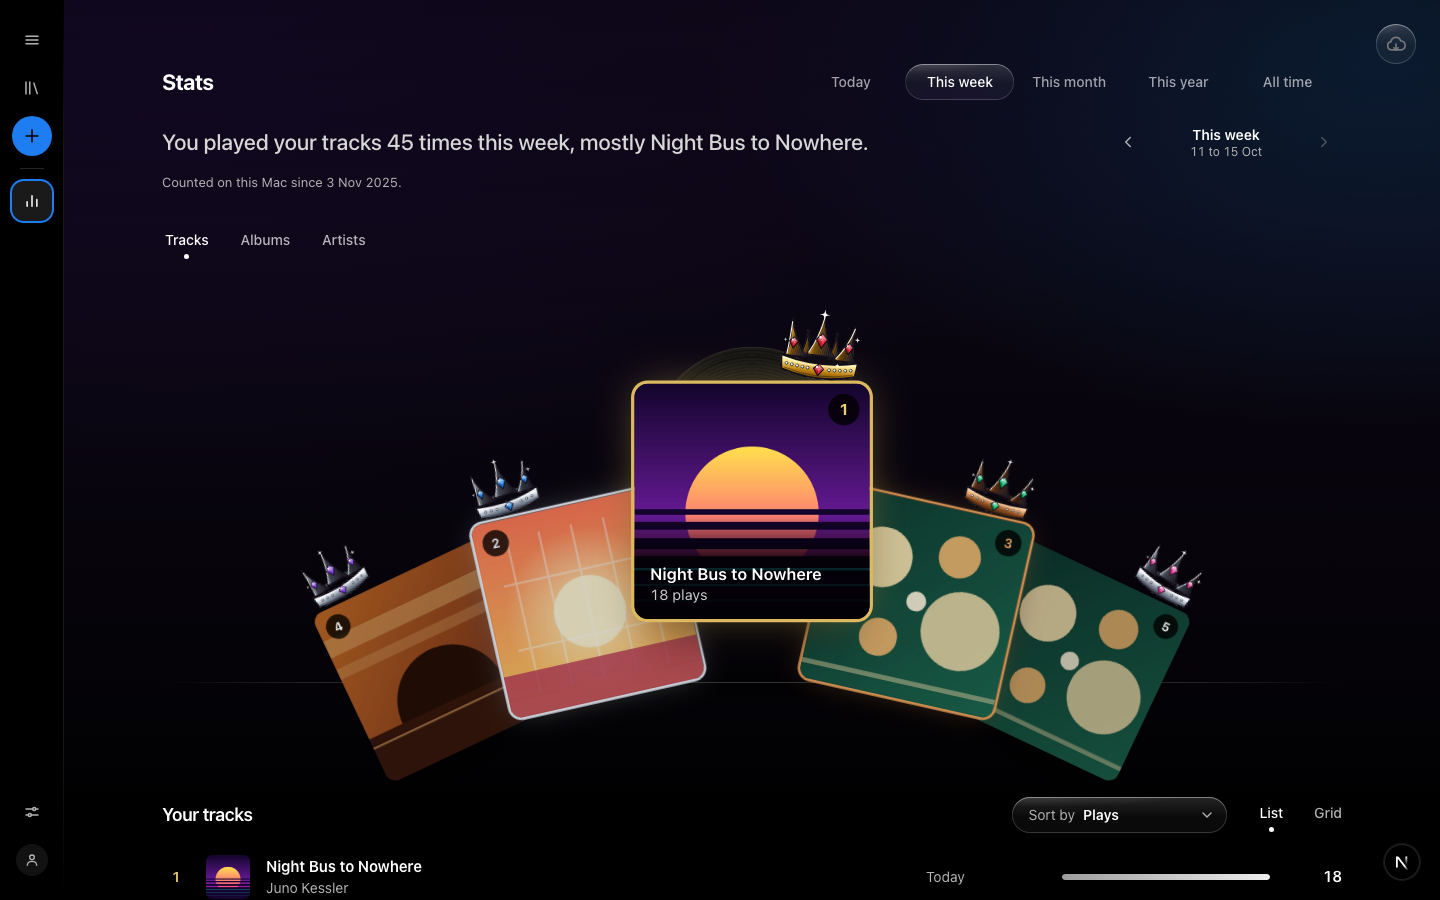
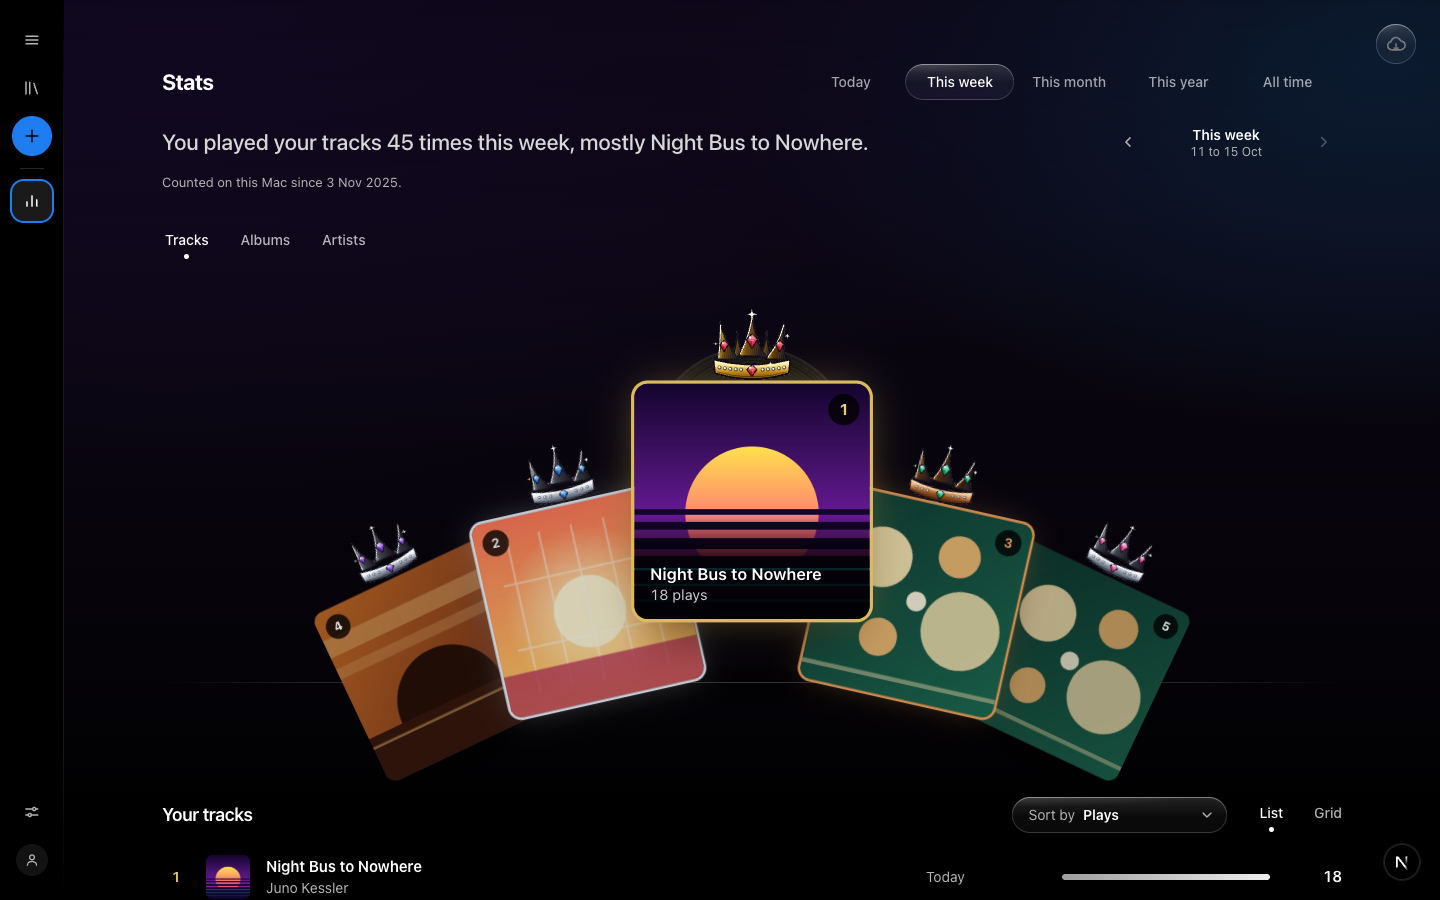
Stats page: crowns centred on the top edge, on tracks and albums only (#145)
The owner wanted them centred and not on artists.

Claude-Session: https://claude.ai/code/session_016wtvpvRFjMyGctvKw2v9pz

diff --git a/apps/web/src/app/globals.css b/apps/web/src/app/globals.css
@@ -2301,26 +2301,20 @@ body {
 .fan-rank[data-medal="gold"] { color: #ecce78; }
 .fan-rank[data-medal="silver"] { color: #d3d8e0; }
 .fan-rank[data-medal="bronze"] { color: #dc9a5e; }
-/* The rank crown (top five): perched on the badge's corner, its band just over the sleeve's top edge
-   and the badge beneath it. It lives inside the button so it tilts and lifts with the sleeve, lets
-   every click through (the hit area is the sleeve's) and has no motion of its own. The simpler
-   drawing shows by default; the full one only where the crown is 64px wide or more (see the
-   container query after the narrow block). 0.42 of the sleeve is the crown's width, 0.354 its height. */
+/* The rank crown (top five, tracks and albums only): centred on the sleeve's top edge, its band just
+   over the edge. It lives inside the button so it tilts and lifts with the sleeve, lets every click
+   through (the hit area is the sleeve's) and has no motion of its own. The simpler drawing shows by
+   default; the full one only where the crown is 64px wide or more (see the container query after the
+   narrow block). 0.42 of the sleeve is the crown's width, 0.354 its height. */
 .fan-crown {
   --fan-crown-w: calc(var(--w) * 0.42);
   position: absolute;
   z-index: 2;
   top: calc(var(--fan-crown-w) * -0.777);
-  right: calc(var(--w) * 0.02);
+  left: 50%;
   width: var(--fan-crown-w);
   pointer-events: none;
-  transform-origin: 50% 100%;
-  transform: rotate(7deg);
-}
-.fan-sleeve[data-side="left"] .fan-crown {
-  left: calc(var(--w) * 0.02);
-  right: auto;
-  transform: rotate(-7deg);
+  transform: translateX(-50%);
 }
 .fan-crown img {
   display: block;
@@ -2330,15 +2324,6 @@ body {
 }
 .fan-crown .fan-crown-full {
   display: none;
-}
-/* A disc's badge sits inside the circle, so the crown rides above it in the square's empty corner. */
-.fan[data-size="page"] .fan-sleeve[data-shape="disc"] .fan-crown {
-  top: calc(var(--fan-crown-w) * -0.777 + var(--w) * 0.1);
-  right: calc(var(--w) * 0.1);
-}
-.fan[data-size="page"] .fan-sleeve[data-shape="disc"][data-side="left"] .fan-crown {
-  left: calc(var(--w) * 0.1);
-  right: auto;
 }
 .fan-tag {
   position: absolute;

diff --git a/apps/web/src/components/stats/SleeveFan.tsx b/apps/web/src/components/stats/SleeveFan.tsx
@@ -222,7 +222,7 @@ function Sleeve({
             <MusicNoteIcon className="h-6 w-6" />
           </span>
         )}
-        {item.rank <= 5 && (
+        {item.rank <= 5 && !disc && (
           <span aria-hidden className="fan-crown">
             {/* eslint-disable-next-line @next/next/no-img-element -- two tiny local SVGs, swapped by CSS at 64px */}
             <img src={`/crowns/crown-${item.rank}.svg`} alt="" draggable={false} decoding="async" className="fan-crown-full" />

diff --git a/docs/design.md b/docs/design.md
@@ -344,7 +344,7 @@ eyebrows still apply to those labels.
     #4 and #5 outside; with fewer than five the same rule runs and the set is centred, no empty
     slots, the tilt per step widening as the fan thins (`lib/fan-layout.ts`); no items means the
     period's empty line, no fan. Hover or focus lifts a sleeve with name and plays; its record only peeks (a crescent of the rim above the sleeve, about 18%, the label stays hidden); artists are round discs. The page fan is a wheel: the sleeves tilt round one far pivot, so they sit on one shallow arc (not a half circle), and it is stacked with depth, each step out a little smaller and darker, like cards. The chosen one lifts, grows and loses its shade, and ← → wheel through them left to right; the lift stays on the keyboard-focused sleeve when the pointer leaves. The sidebar's shelf is the original tight stack of three, number one in front, with the same depth and shading. Under about 545px of room the chosen sleeve's name and plays sit in a caption under the fan instead of on the cover, and the narrow wheel lifts the chosen sleeve higher (0.6 of its width) so it clears its neighbours: at least 47px of each sleeve stays to tap in every selection state at 390px (about 41px at 360px and 36px at 320px).
-    The top five wear rank crowns (metal by medal, gems by rank: gold/ruby, silver/blue, bronze/emerald, silver/purple, silver/pink): inked gothic drawings from `scripts/make-rank-crowns.py`, perched on the badge corner above the rank number, a simpler drawing below 64px wide (the shelf and the narrow page). Decorative only (hidden from screen readers, clicks pass through) with no motion of their own; they move with their sleeve.
+    The top five wear rank crowns (metal by medal, gems by rank: gold/ruby, silver/blue, bronze/emerald, silver/purple, silver/pink): inked gothic drawings from `scripts/make-rank-crowns.py`, centred on the top edge of each track or album sleeve (none on artists), the rank badge staying on the corner, a simpler drawing below 64px wide (the shelf and the narrow page). Decorative only (hidden from screen readers, clicks pass through) with no motion of their own; they move with their sleeve.
   - **Activation**: a sleeve, list row and grid tile is a button. A sleeve first plays a short
     opening beat (360ms: the record slides further out, the sleeve lifts and grows a little; none
     under reduced motion, which opens at once), then the release opens. A track opens its release
